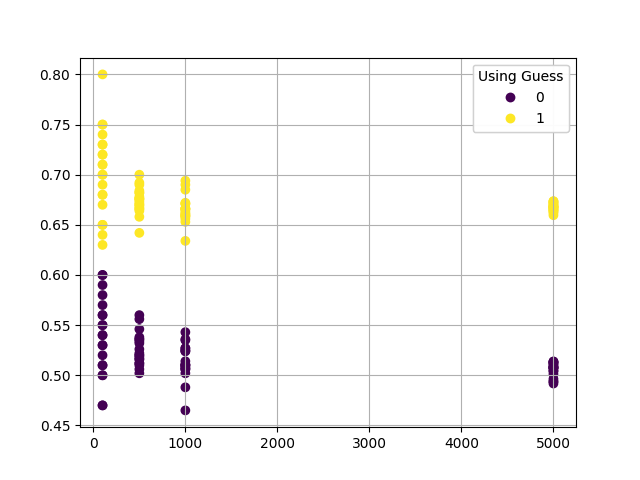
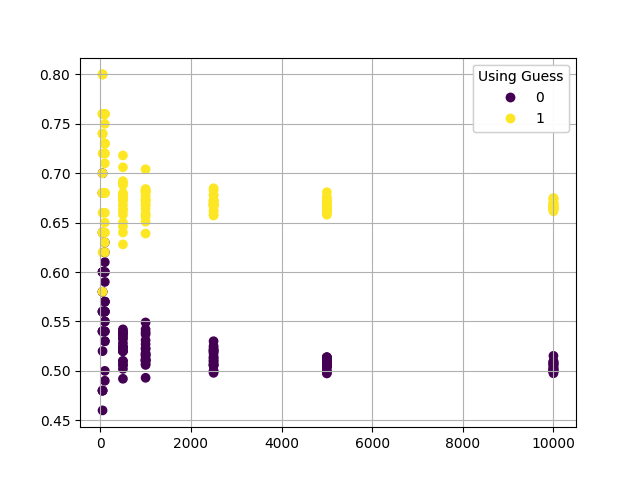
Adding docs and new results

diff --git a/main.py b/main.py
@@ -8,10 +8,11 @@ from matplotlib import pyplot as plt
 
 
 class Problem:
-    """A class that defines the Problem (the list of randomized clicks for the problem 
-    itself. This will handle the release mechanism alongside generating all of the 
+    """A class that defines the Problem (the list of randomized clicks for the problem
+    itself. This will handle the release mechanism alongside generating all of the
     necessary lists (guesses, binomial distribution, etc.))
     """
+
     def __init__(self, num_entries: int) -> None:
         self.num_entries = num_entries
 
@@ -101,6 +102,7 @@ class Solver:
     """A class that facilitates "solving" the specified problem. Takes in parameters
     that define what functionality it has access to when solving the problem.
     """
+
     def __init__(
         self,
         problem: Problem,
@@ -114,7 +116,7 @@ class Solver:
 
     def solve(self):
         """Will attempt to solve the problem. The solver will iterate over the answers
-        list and generate a 1:1 list in size that contains the solver's guesses to the 
+        list and generate a 1:1 list in size that contains the solver's guesses to the
         answers.
 
         Raises:
@@ -171,21 +173,22 @@ def _compute_accuracy(actual, guesses):
 
 def benchmark(entries: int, use_guesses: bool, iters: int = 20):
     """Iterates over the problem, generating a new problem and solver for each
-    iteration to then solve. Will return the accuracy that the solver got for 
+    iteration to then solve. Will return the accuracy that the solver got for
     the problem.
 
     Args:
         entries (int): The number of entries
         use_guesses (bool): Whether the solver can use guesses
-        iters (int, optional): The iterations that the process will go through. 
+        iters (int, optional): The iterations that the process will go through.
         Defaults to 20.
     """
+
     def _benchmark():
         for _ in range(iters):
             problem = Problem(entries)
-            
+
             solver = Solver(problem, use_guesses=use_guesses)
-            
+
             guesses = solver.solve()
 
             accuracy = _compute_accuracy(problem.actual, guesses)
@@ -194,20 +197,30 @@ def benchmark(entries: int, use_guesses: bool, iters: int = 20):
 
     return list(_benchmark())
 
-def write_mean_stdev(accuracies: list[int], entries: int, use_guesses: bool, out_filename: str):
+
+def write_mean_stdev(
+    accuracies: list[int], entries: int, use_guesses: bool, out_filename: str
+):
     mean, stdev = statistics.mean(accuracies), statistics.stdev(accuracies)
-    
-    with open(out_filename, mode='a') as results_file:
+
+    with open(out_filename, mode="a") as results_file:
         results_file.write(f"{entries},{int(use_guesses)},{mean:.4f},{stdev:.4f}\n")
 
-def run_tests(*, display_graph: bool=False, iters: int=20, graph_filename: str="results.png", out_filename:str="results.csv"):
-    entries = [100, 500, 1000, 5000]
-    algorithm_type = ["logic"]
-    use_guesses = [False, True]
+
+def run_tests(
+    *,
+    display_graph: bool = False,
+    iters: int = 20,
+    graph_filename: str = "results.png",
+    out_filename: str = "results.csv",
+):
+    entries = [50, 100, 500, 1000, 2500, 5000,]
+    algorithm_type = ["logic",]
+    use_guesses = [False, True,]
 
     res = {"x": [], "y": [], "c": []}
-    
-    with open(out_filename, mode='w') as results_file:
+
+    with open(out_filename, mode="w") as results_file:
         results_file.write(f"entries,use_guesses,mean,stdev\n")
 
     fig, ax = plt.subplots()
@@ -215,9 +228,9 @@ def run_tests(*, display_graph: bool=False, iters: int=20, graph_filename: str="
         entries, algorithm_type, use_guesses
     ):
         accuracies = benchmark(entries, use_guess)
-        
+
         write_mean_stdev(accuracies, entries, use_guess, out_filename)
-        
+
         res["x"].extend([entries] * iters)
         res["y"].extend(accuracies)
 
@@ -228,10 +241,11 @@ def run_tests(*, display_graph: bool=False, iters: int=20, graph_filename: str="
     legend1 = ax.legend(
         *scatter.legend_elements(), loc="upper right", title="Using Guess"
     )
+    
     ax.add_artist(legend1)
     ax.grid()
     plt.savefig(graph_filename)
-    
+
     if display_graph:
         plt.show()
 
